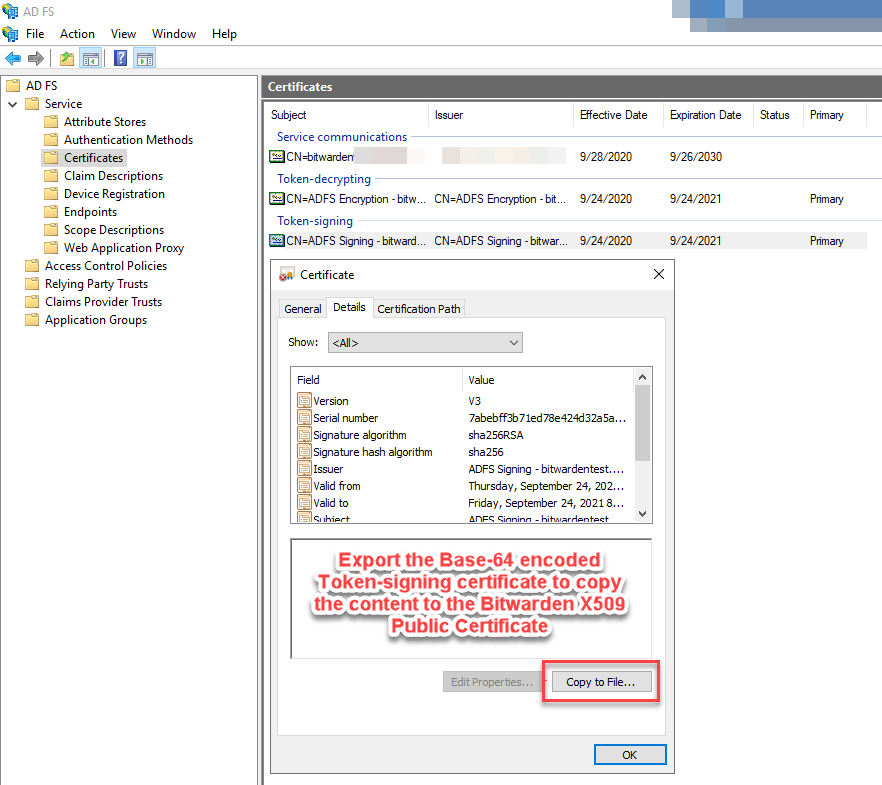
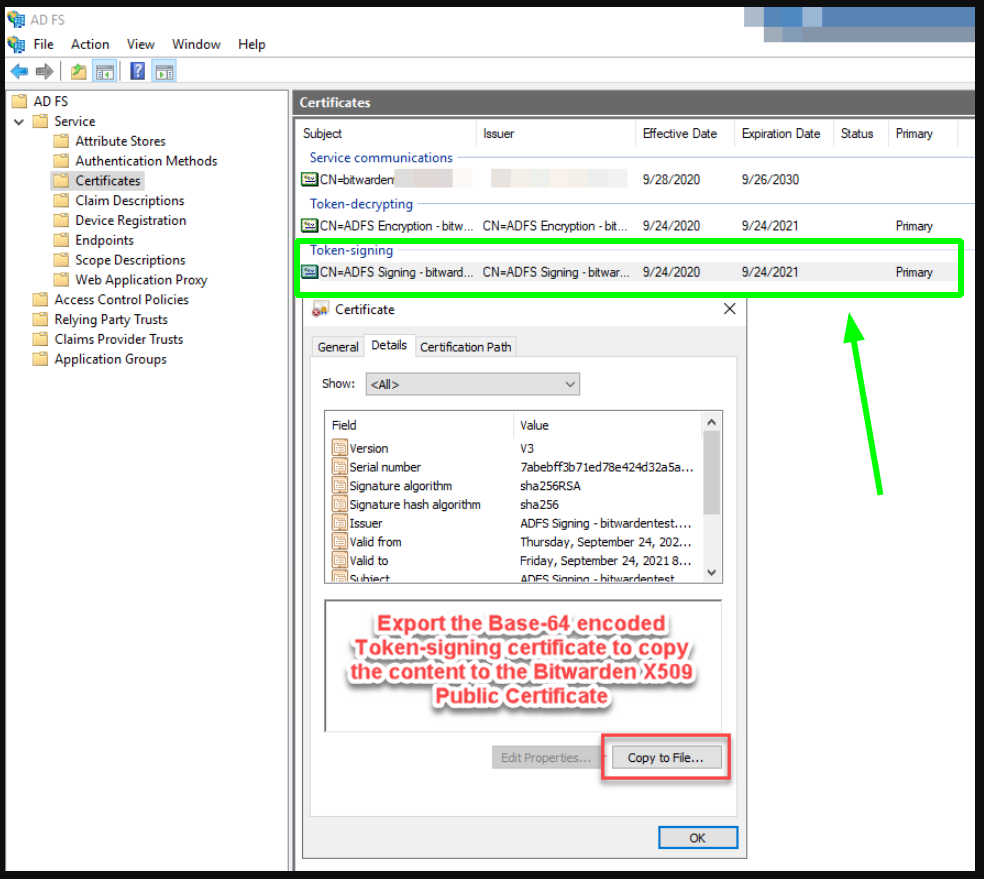
Miscellaneous Madness (#628)
* ADFS token signing, better screenshot

* why rotate

* Fix "import only from Web Vault" claims

* note that data is encrypted locally when importing

* clean general faqs of items addressed in other articles / + move old faq items to more relevant lists

* purge faq item

* Update authenticator-keys.md

Changed region(s): [[0.0, 0.0, 1.0, 1.0], [0.8878, 0.5197, 0.9184, 0.5809]]

diff --git a/_articles/faqs/product-faqs.md b/_articles/faqs/product-faqs.md
@@ -17,7 +17,7 @@ This article contains Frequently Asked Questions (FAQs) about general Vault Mana
 
 ### Q: What do I do if I forgot my Master Password?
 
-**A:** As a Zero Trust solution, Bitwarden and its systems have no knowledge of, way to retrieve, or way to reset your Master Password. If you've already lost your Master Password, there is unfortunately no way for the team to recover the account. For help understanding what to do next, or what to do proactively to protect yourself from such a scenario, refer to the article on [Your Master Password]({% link _articles/account/master-password.md %}).
+**A:** As a zero knowledge solution, Bitwarden and its systems have no knowledge of, way to retrieve, or way to reset your Master Password. If you've already lost your Master Password, there is unfortunately no way for the team to recover the account. For help understanding what to do next, or what to do proactively to protect yourself from such a scenario, refer to the article on [Your Master Password]({% link _articles/account/master-password.md %}).
 
 ### Q: Is there a way for someone to access my Vault items in case of emergency?
 
@@ -73,111 +73,24 @@ You may need to make an exception for Bitwarden or configure your whitelist to k
 
 ## Other Questions
 
-### Q: How do I change a collection via the CLI?
+### Q: Can I install Bitwarden without Google Play, for instance on F-Droid?
 
-**A:** In order to change a Collection, you will use a dedicated command (bw edit item-collections).
+**A:** Yes! You can download directly from GitHub <https://github.com/bitwarden/mobile/releases> or via F-Droid by adding our repo <https://mobileapp.bitwarden.com/fdroid/>, which removes all non-approved libraries.
 
-For example:
-```
-$ echo '["a17a5b7f-66b8-4980-91a1-aaac005df696"]' | bw encode | bw edit item-collections ee9f9dc2-ec29-4b7f-9afb-aac8010631a1
-```
-You can add multiple Collection IDs at the same time by using a comma to separate them.
+Unfortunately, F-Droid can not compile our app from source as it is based on Xamarin and it is not supported by F-Droid's current compiler methods, so we must use a separate repo.
 
-### Q: Can I install Bitwarden without Google Play?
+### Q: I need an old password! Can I view the history of a password that I changed in Bitwarden?
 
-**A:** Yes! You can download directly from GitHub <https://github.com/bitwarden/mobile/releases> or via F-Droid by adding our repo <https://mobileapp.bitwarden.com/fdroid/>
-
-### Q: Can I use Directory connector to sign into Bitwarden?
-
-**A:** The Directory Connector tool provides the functions to automatically provision and deprovision users, groups, and group associations from your user directory (LDAP, Active Directory, G Suite, Azure AD, or Okta).
-
-To use an existing identity provider for authentication, you’ll need to subscribe to our enterprise plan and configure it.
-
-### Q: How can I disable Firefox Autofill?
-
-1. Navigate to `about:preferences#privacy` in Firefox.
-2. Scroll down and uncheck **Autofill logins and passwords**.
-
-**On Android**
-1. Open Firefox
-2. Tap on the three dot menu.
-3. Tap on Settings.
-4. Locate **Logins and passwords**.
-5. Tap on **Autofill** and turn it off.
-
-### Q: How can I disable Google Auto-fill in my Android Device?
-
-1. Open Settings in your Android device.
-2. Scroll down and tap on Google.
-3. Locate Auto-fill
-4. Tap on Auto-fill with Google and turn it off.
-
-### Q: Can I download Bitwarden on F-Droid? I cannot find it.
-
-**A:** Yes, by adding our official private repo which removes all non-approved libraries: <https://mobileapp.bitwarden.com/fdroid/>
-
-Unfortunately,  F-Droid can not compile our app from source as it is based on Xamarin and it is not supported by F-Droid's current compiler methods, so we must use a separate repo.
-
-### Q: How can I see the history of a password that has been changed?
-
-The ability to view the history of the last 5 passwords for a Login Item is available. You can open the item in question and select the "1" next to Password History near the bottom of the window.
+**A:** Yes! You can view the last 5 passwords for any Login Item. Open the item in question and select the "1" next to Password History near the bottom of the window.
 
 {% callout warning %}
 Clicking on the number will expose the historical password values in plain text immediately.
 {% endcallout %}
 
-### Q: Can I see the history of the passwords I have generated?
+### Q: I forgot to save a generated password! Can I view the history of generated passwords?
 
-**A:** You can view the history of the Password Generator but please note that is a separate history per app/client. This information is not synchronized between devices.
+**A:** Yes, you can view the history of the Password Generator from that client application's generator screen. **Please note** this history is separate per app/client and is not synchronized between devices.
 
-### Q: Do I need premium and families?
+### What happens when I purge my Vault?
 
-**A:** The legacy Families plan does not include premium for its users. Users would need to upgrade to premium individually, or the family organization owner could upgrade the organization.
-
-Currently, the Families plan introduced in September 2020, supports premium features for up to 6 users.
-
-
-### Q: What is TOTP and how can I use it?
-
-**A:** Time-based One-time Password (TOTP) - <https://en.wikipedia.org/wiki/Time-based_One-time_Password_algorithm>
-
-Each website that supports TOTP or 2FA with an "Authenticator" calls it differently and each handles the procedure of setting up a little differently. You will need to start the set up from each individual web site that you are accessing. (e.g. google.com, amazon.com).
-
-1. You will want to edit any item that you wish to use TOTP with.
-2. Populate the "Authenticator Key (TOTP)" field with the seed key you are provided with.  *You can also use the Bitwarden mobile application to directly scan QR codes and it will populate automatically.
-3. Save the changes.
-
-Now, Bitwarden will store and generate the timed code that you will be asked for when logging into services with TOTP 2FA enabled. Here is a handy website that you can use to test this feature: <https://totp.danhersam.com/>
-
-Whenever you auto-fill a website that has TOTP attached, the code will automatically be copied to your device's system clipboard. Now you can quickly paste the code into the field when challenged.
-
-### Q: Why are my TOTP codes incorrect/not working?
-
-**A:** TOTP codes are ***time based*** and use device time for generation. A device with the wrong time will generate incorrect codes. Please check your device's system time and try your TOTP code again.
-
-### Q: How do I use the web browser extension?
-
-**A:** Using the Bitwarden Web Browser Extension is a good way to add your passwords to your vault. Anytime it detects a password field on a website that it doesn't have in its database, it will ask to save.
-
-For updating, anytime there is a password field detected, when you enter a password if it doesn't detect the same password as what it has in its database then it will ask you to update it. You will see a banner at the top of the web page that will prompt you to save or update.
-
-Please see this helpful article regarding interacting with a web page to fill your Login Item information:
-- <https://help.bitwarden.com/article/auto-fill-browser/>
-
-Bitwarden Web Browser Extension video on YouTube:
-- <https://youtu.be/dBPfr7Jiddw>
-
-More helpful videos from the Bitwarden Community on YouTube:
-
-- <https://youtu.be/L1BNrVrvWw4>
-- <https://youtu.be/TREdS8iq6Qg>
-- <https://youtu.be/uF6tzGYaIxg>
-
-### Q: I am asked for my master password even though I have PIN unlock enabled on iOS / Android
-
-**A:** When you enable PIN unlock, you are prompted if you’d like to use your Master Password after an application restarted (closed). If you select yes, if the app is closed or backgrounded, you will be prompted for your Master Password instead of the PIN.
-
-To reset this:
-- Disable PIN Unlock
-- Enable PIN Unlock
-- Select ‘No’ when prompted about using the Master Password after application restart.
+**A:** When you purge a **Personal Vault**, all Vault items and Folders will be deleted. When you purge an **Organization Vault**, all shared (i.e. owned by the Organization) Vault items will be deleted however existing users, Collections, and Groups will remain in place.

diff --git a/_articles/account/account-encryption-key.md b/_articles/account/account-encryption-key.md
@@ -18,7 +18,10 @@ Each unique Bitwarden account has an encryption key derived from your Master Pas
 **Rotating your encryption key is a potentially dangerous operation.** Please read this section thoroughly to understand the full ramifications of doing so.
 {% endcallout %}
 
-Rotating your account’s encryption key generates a new encryption key that is used to re-encrypt all Vault data. After rotating, you should quickly take the following actions to prevent data loss or corruption:
+Rotating your account’s encryption key generates a new encryption key that is used to re-encrypt all Vault data. You should consider rotating your encryption key if your account has been compromised such in a way that someone has obtained your encryption key.
+
+
+After rotating, you should quickly take the following actions to prevent data loss or corruption:
 
 #### Log out of Client Applications
 

diff --git a/_articles/importing/import-data.md b/_articles/importing/import-data.md
@@ -26,7 +26,7 @@ For a full list of supported import formats, see [What file formats does Bitward
 
 ## Import to your Personal Vault
 
-Importing data to Bitwarden **can only be done from the** [**Web Vault**](https://vault.bitwarden.com){:target="\_blank"}. To import your data:
+Importing data to Bitwarden **can only be done from the** [**Web Vault**](https://vault.bitwarden.com){:target="\_blank"} or [CLI]({{site.baseurl}}/article/cli/#import). Data is [encrypted]({{site.baseurl}}/article/what-encryption-is-used/) locally before being sent to the server for storage. To import your data:
 
  1. In the Web Vault, select **Tools** from the top navigation bar.
  2. Select **Import Data** from the left-hand Tools menu.

diff --git a/_articles/importing/import-from-firefox.md b/_articles/importing/import-from-firefox.md
@@ -83,7 +83,7 @@ Some Firefox-based browsers offer login export in a different location than vani
 
 ## Import to Bitwarden
 
-Importing data to Bitwarden **can only be done from the** [**Web Vault**](https://vault.bitwarden.com){:target="\_blank"}. To import your data:
+Importing data to Bitwarden **can only be done from the** [**Web Vault**](https://vault.bitwarden.com){:target="\_blank"} or [CLI]({{site.baseurl}}/article/cli/#import). Data is [encrypted]({{site.baseurl}}/article/what-encryption-is-used/) locally before being sent to the server for storage. To import your data:
 
  1. In the Web Vault, select **Tools** from the top navigation bar.
  2. Select **Import Data** from the left-hand Tools menu.

diff --git a/_articles/importing/import-from-passwordsafe.md b/_articles/importing/import-from-passwordsafe.md
@@ -39,7 +39,7 @@ To prepare the exported file for import, please follow the instructions in this 
 
 ## Import to Bitwarden
 
-Importing data to Bitwarden **can only be done from the** [**Web Vault**](https://vault.bitwarden.com){:target="\_blank"}. To import your data:
+Importing data to Bitwarden **can only be done from the** [**Web Vault**](https://vault.bitwarden.com){:target="\_blank"} or [CLI]({{site.baseurl}}/article/cli/#import). Data is [encrypted]({{site.baseurl}}/article/what-encryption-is-used/) locally before being sent to the server for storage. To import your data:
 
  1. In the Web Vault, select **Tools** from the top navigation bar.
  2. Select **Import Data** from the left-hand Tools menu.

diff --git a/_articles/importing/import-from-1password.md b/_articles/importing/import-from-1password.md
@@ -31,7 +31,7 @@ Complete the following steps to export data from the 1Password Desktop App:
 
 ## Import to Bitwarden
 
-Importing data to Bitwarden **can only be done from the** [**Web Vault**](https://vault.bitwarden.com){:target="\_blank"}. To import your data:
+Importing data to Bitwarden **can only be done from the** [**Web Vault**](https://vault.bitwarden.com){:target="\_blank"} or [CLI]({{site.baseurl}}/article/cli/#import). Data is [encrypted]({{site.baseurl}}/article/what-encryption-is-used/) locally before being sent to the server for storage. To import your data:
 
 1. In the Web Vault, select **Tools** from the top navigation bar.
 2. Select **Import Data** from the left-hand Tools menu.

diff --git a/_articles/organizations/import-to-org.md b/_articles/organizations/import-to-org.md
@@ -23,7 +23,7 @@ For a full list of supported import formats, see [What file formats does Bitward
 
 ## Import to your Organization
 
-Importing data to Bitwarden **can only be done from the** [**Web Vault**](https://vault.bitwarden.com){:target="\_blank".}.  To import data to an Organization Vault:
+Importing data to Bitwarden **can only be done from the** [**Web Vault**](https://vault.bitwarden.com){:target="\_blank".} or [CLI]({{site.baseurl}}/article/cli/#import). Data is [encrypted]({{site.baseurl}}/article/what-encryption-is-used/) locally before being sent to the server for storage. To import data to an Organization Vault:
 
 1. Open your Organization and navigate to the **Tools** tab:
 

diff --git a/_articles/importing/import-from-chrome.md b/_articles/importing/import-from-chrome.md
@@ -66,7 +66,7 @@ To export passwords from Chrome on your Mobile Device:
 
 ## Import to Bitwarden
 
-Importing data to Bitwarden **can only be done from the** [**Web Vault**](https://vault.bitwarden.com){:target="\_blank"}. To import your data:
+Importing data to Bitwarden **can only be done from the** [**Web Vault**](https://vault.bitwarden.com){:target="\_blank"} or [CLI]({{site.baseurl}}/article/cli/#import). Data is [encrypted]({{site.baseurl}}/article/what-encryption-is-used/) locally before being sent to the server for storage. To import your data:
 
  1. In the Web Vault, select **Tools** from the top navigation bar.
  2. Select **Import Data** from the left-hand Tools menu.

diff --git a/_articles/importing/import-from-lastpass.md b/_articles/importing/import-from-lastpass.md
@@ -79,7 +79,7 @@ To export your data from a LastPass Browser Extension:
 
 ## Import to Bitwarden
 
-Importing data to Bitwarden **can only be done from the** [**Web Vault**](https://vault.bitwarden.com){:target="\_blank"}. To import your data:
+Importing data to Bitwarden **can only be done from the** [**Web Vault**](https://vault.bitwarden.com){:target="\_blank"} or [CLI]({{site.baseurl}}/article/cli/#import). Data is [encrypted]({{site.baseurl}}/article/what-encryption-is-used/) locally before being sent to the server for storage. To import your data:
 
  1. In the Web Vault, select **Tools** from the top navigation bar.
  2. Select **Import Data** from the left-hand Tools menu.

diff --git a/_articles/faqs/billing-faqs.md b/_articles/faqs/billing-faqs.md
@@ -48,6 +48,12 @@ You can add or remove seats from your Organization at any time. The cost will be
 
 For more information, see [Hosting](https://bitwarden.com/help/hosting).
 
+### Q: If I have a Families Organization, do I need Premium?
+
+**A:** The current Families plan (introduced Sep. 2020) automatically provides premium features for all 6 members of the Organization, so no!
+
+Legacy Families plans do not automatically provide premium features, so users would need to upgrade to premium individually or the Families Organization Owner could upgrade the organization.
+
 ## Payment Options
 
 ### Q: What payment options do you accept for customers based in the United States?

diff --git a/_articles/features/authenticator-keys.md b/_articles/features/authenticator-keys.md
@@ -23,6 +23,10 @@ In Bitwarden, you can generate TOTPs using two methods:
 - From a Bitwarden mobile app by [**Scanning a QR Code**](#scan-a-qr-code)
 - From any Bitwarden app by [**Manually Entering a Secret**](#manually-enter-a-secret)
 
+{% callout success %}
+TOTPs rely on *time-based* code generation. If your device has an incorrect time compared to the server, it'll generate codes that don't work.
+{% endcallout %}
+
 ### Scan a QR Code
 
 Complete the following steps to setup the Bitwarden Authenticator from the iOS or Android app:

diff --git a/_articles/miscellaneous/cli.md b/_articles/miscellaneous/cli.md
@@ -359,6 +359,12 @@ For example:
 bw get item 7ac9cae8-5067-4faf-b6ab-acfd00e2c328 | jq '.login.password="newp@ssw0rd"' | bw encode | bw edit item 7ac9cae8-5067-4faf-b6ab-acfd00e2c328
 ```
 
+Or, to edit a Collection:
+
+```
+bw get collection ee9f9dc2-ec29-4b7f-9afb-aac8010631a1 | jq '.name="My Collection"' | bw encode | bw edit item-collections ee9f9dc2-ec29-4b7f-9afb-aac8010631a1
+```
+
 The `edit` command will perform a **replace** operation on the object. Upon success, the updated object will be returned as JSON.
 
 ### list
